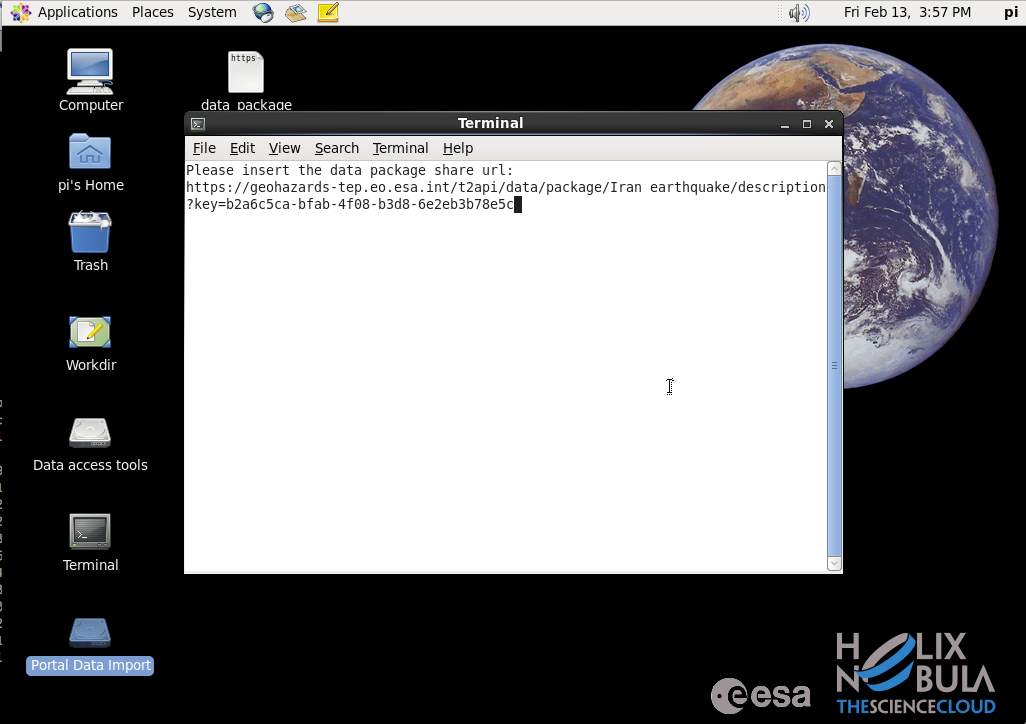
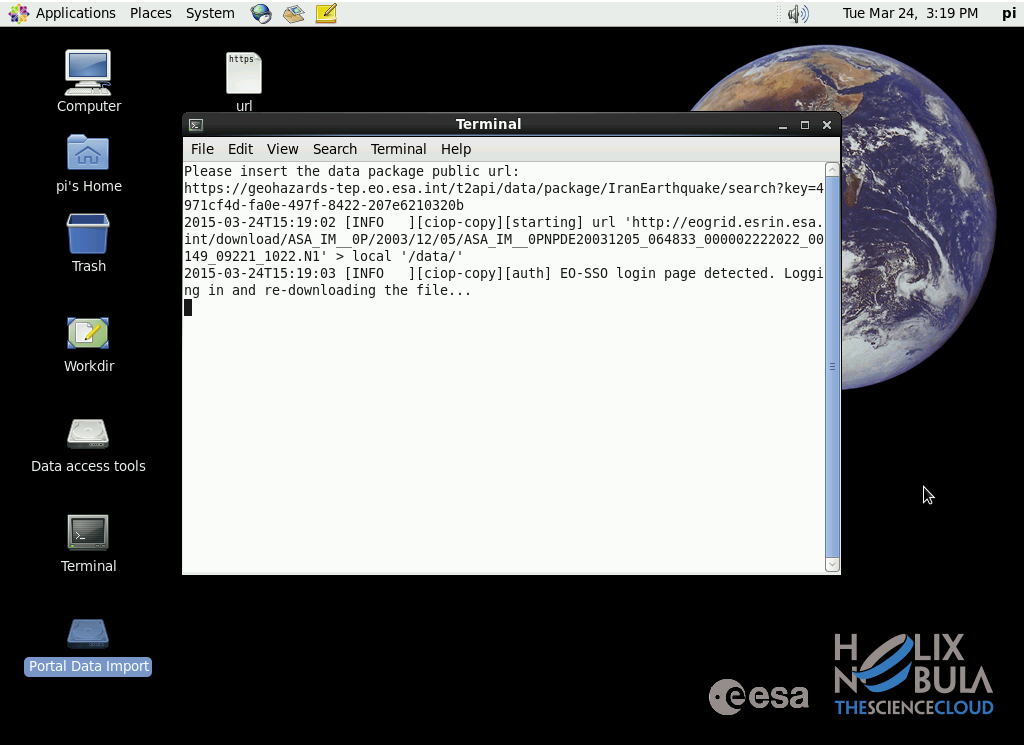
Update Esa CloudToolbox Screens and doc

diff --git a/source/cloud-administrator/cloud-import.rst b/source/cloud-administrator/cloud-import.rst
@@ -15,7 +15,7 @@ Portal Data Import within ESA CloudToolbox
 
 .. code-block:: url
   
-  https://geohazards-tep.eo.esa.int/t2api/data/package/Iran%20earthquake/description?key=b2a6c5ca-bfab-4f08-b3d8-6e2eb3b78e5c
+  https://geohazards-tep.eo.esa.int/t2api/data/package/IranEarthquake/search?key=4971cf4d-fa0e-497f-8422-207e6210320b
 
 .. figure:: assets/import_2.png
 	:figclass: align-center
